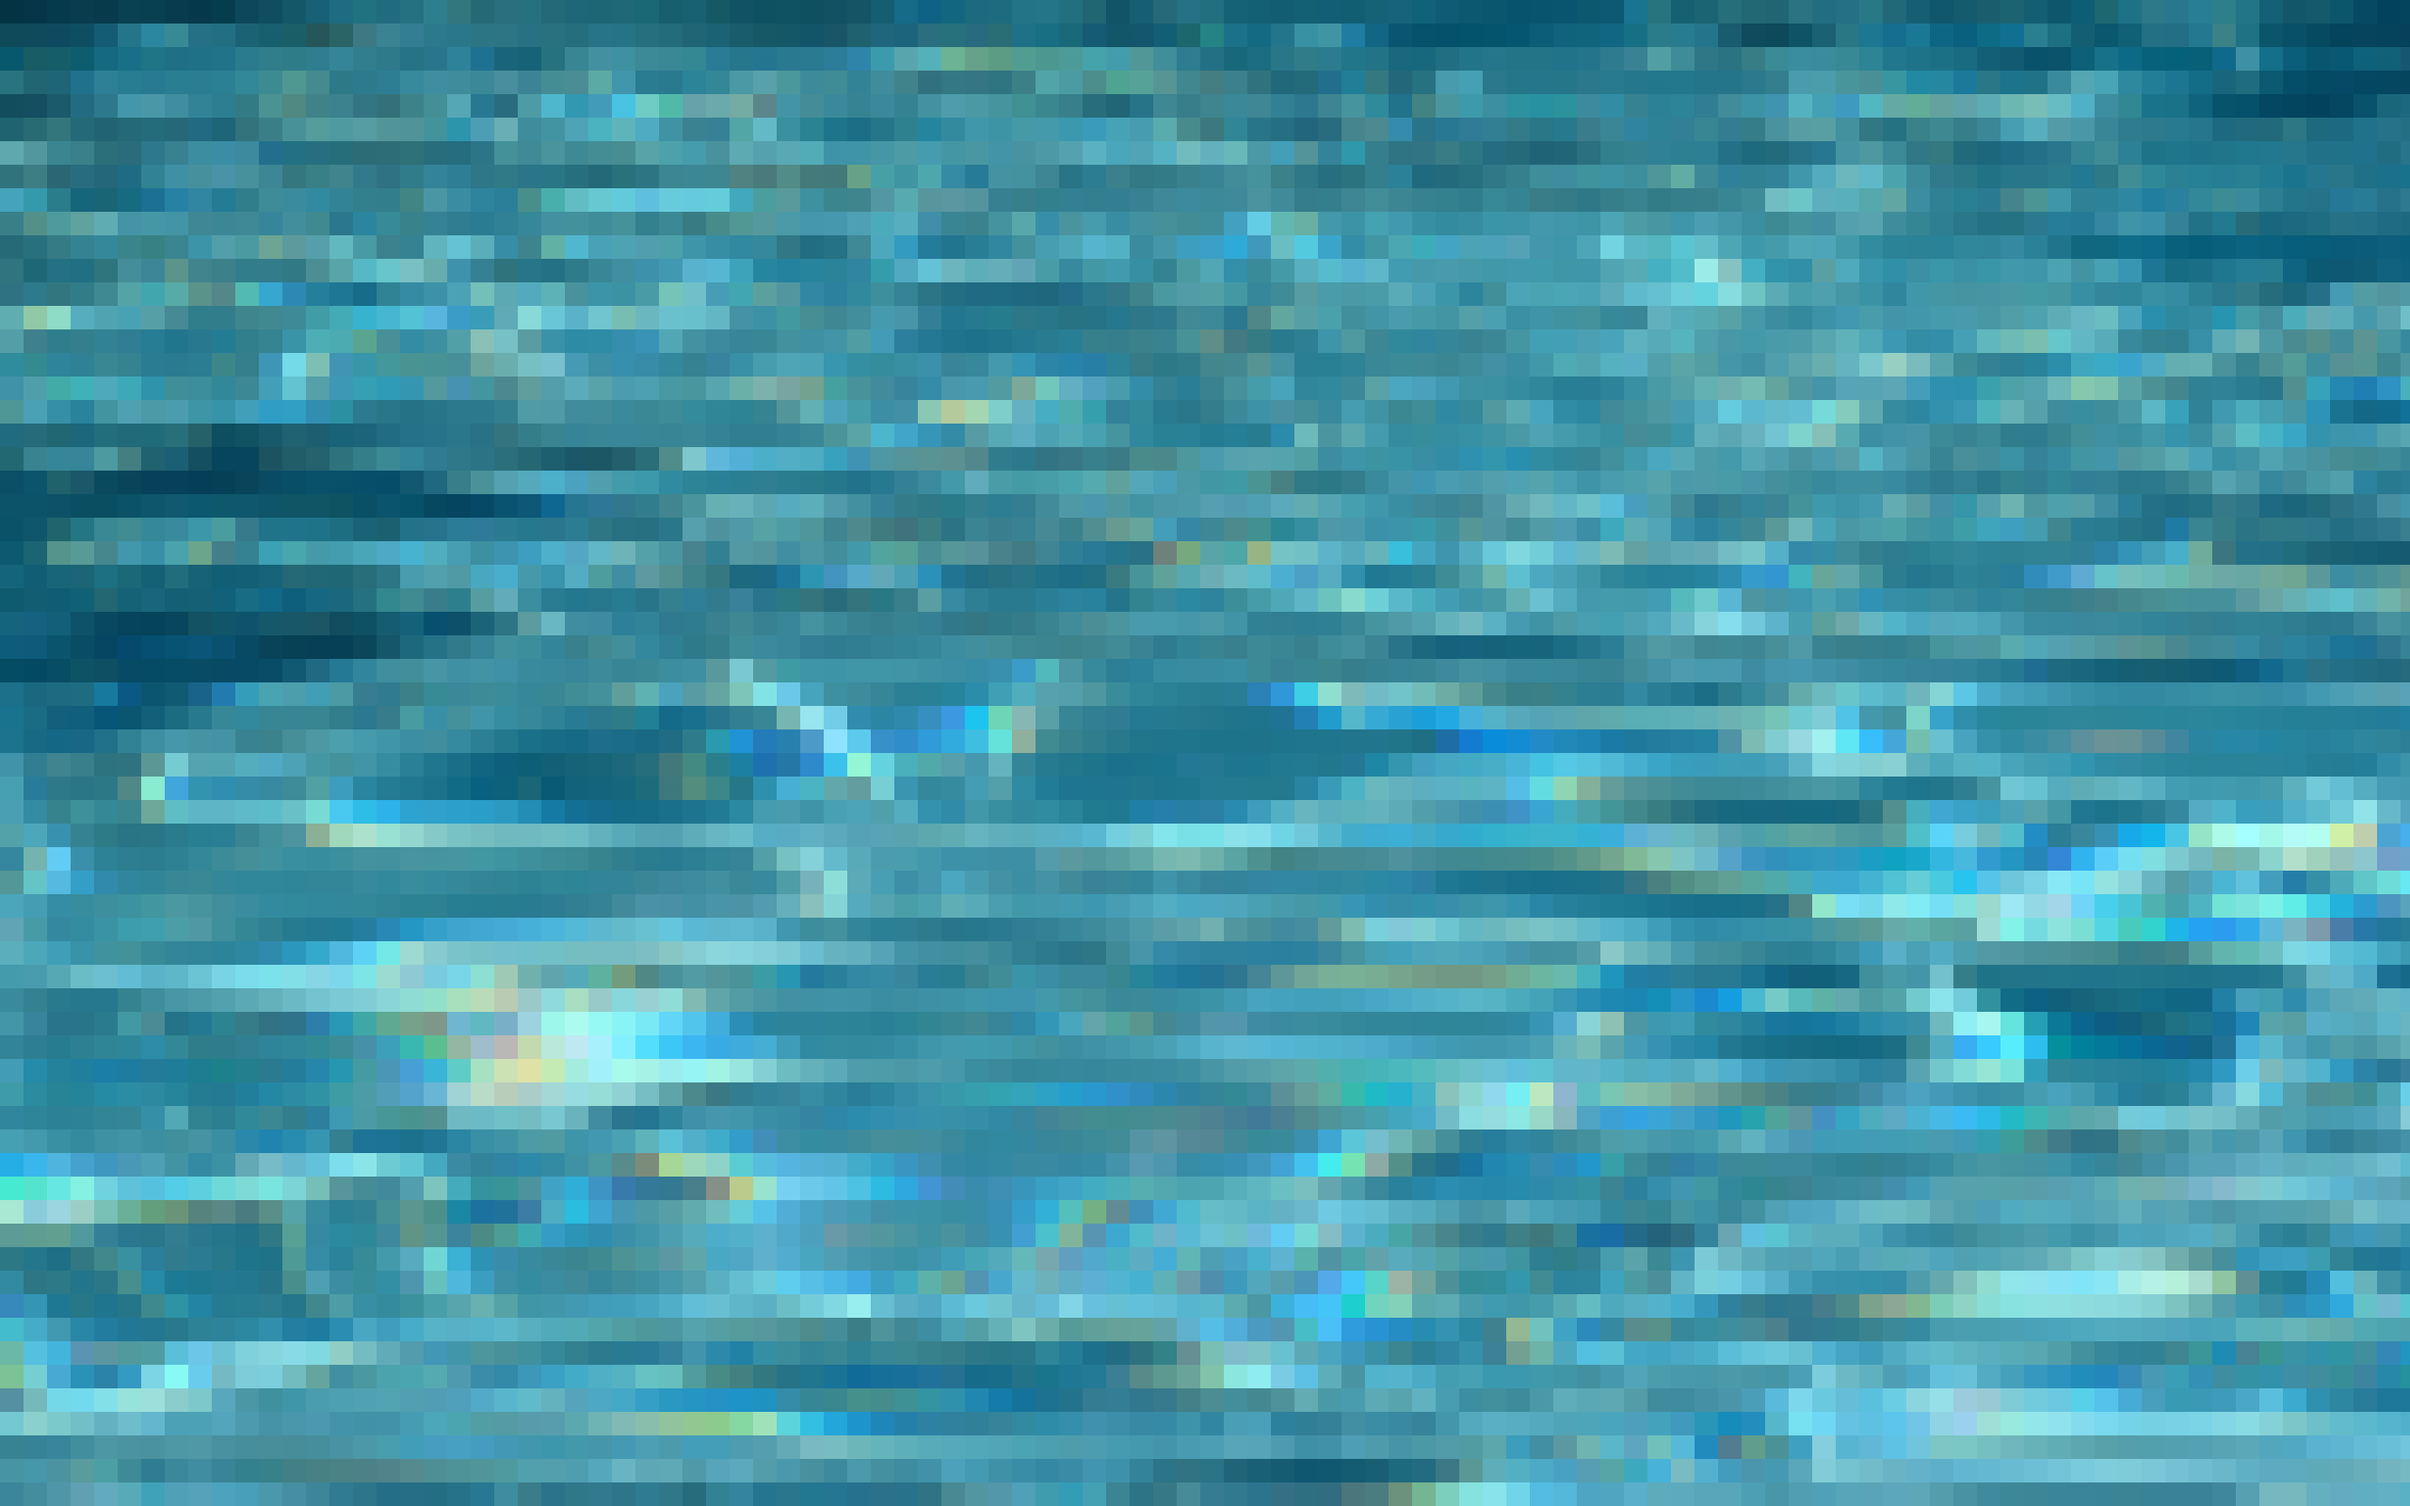
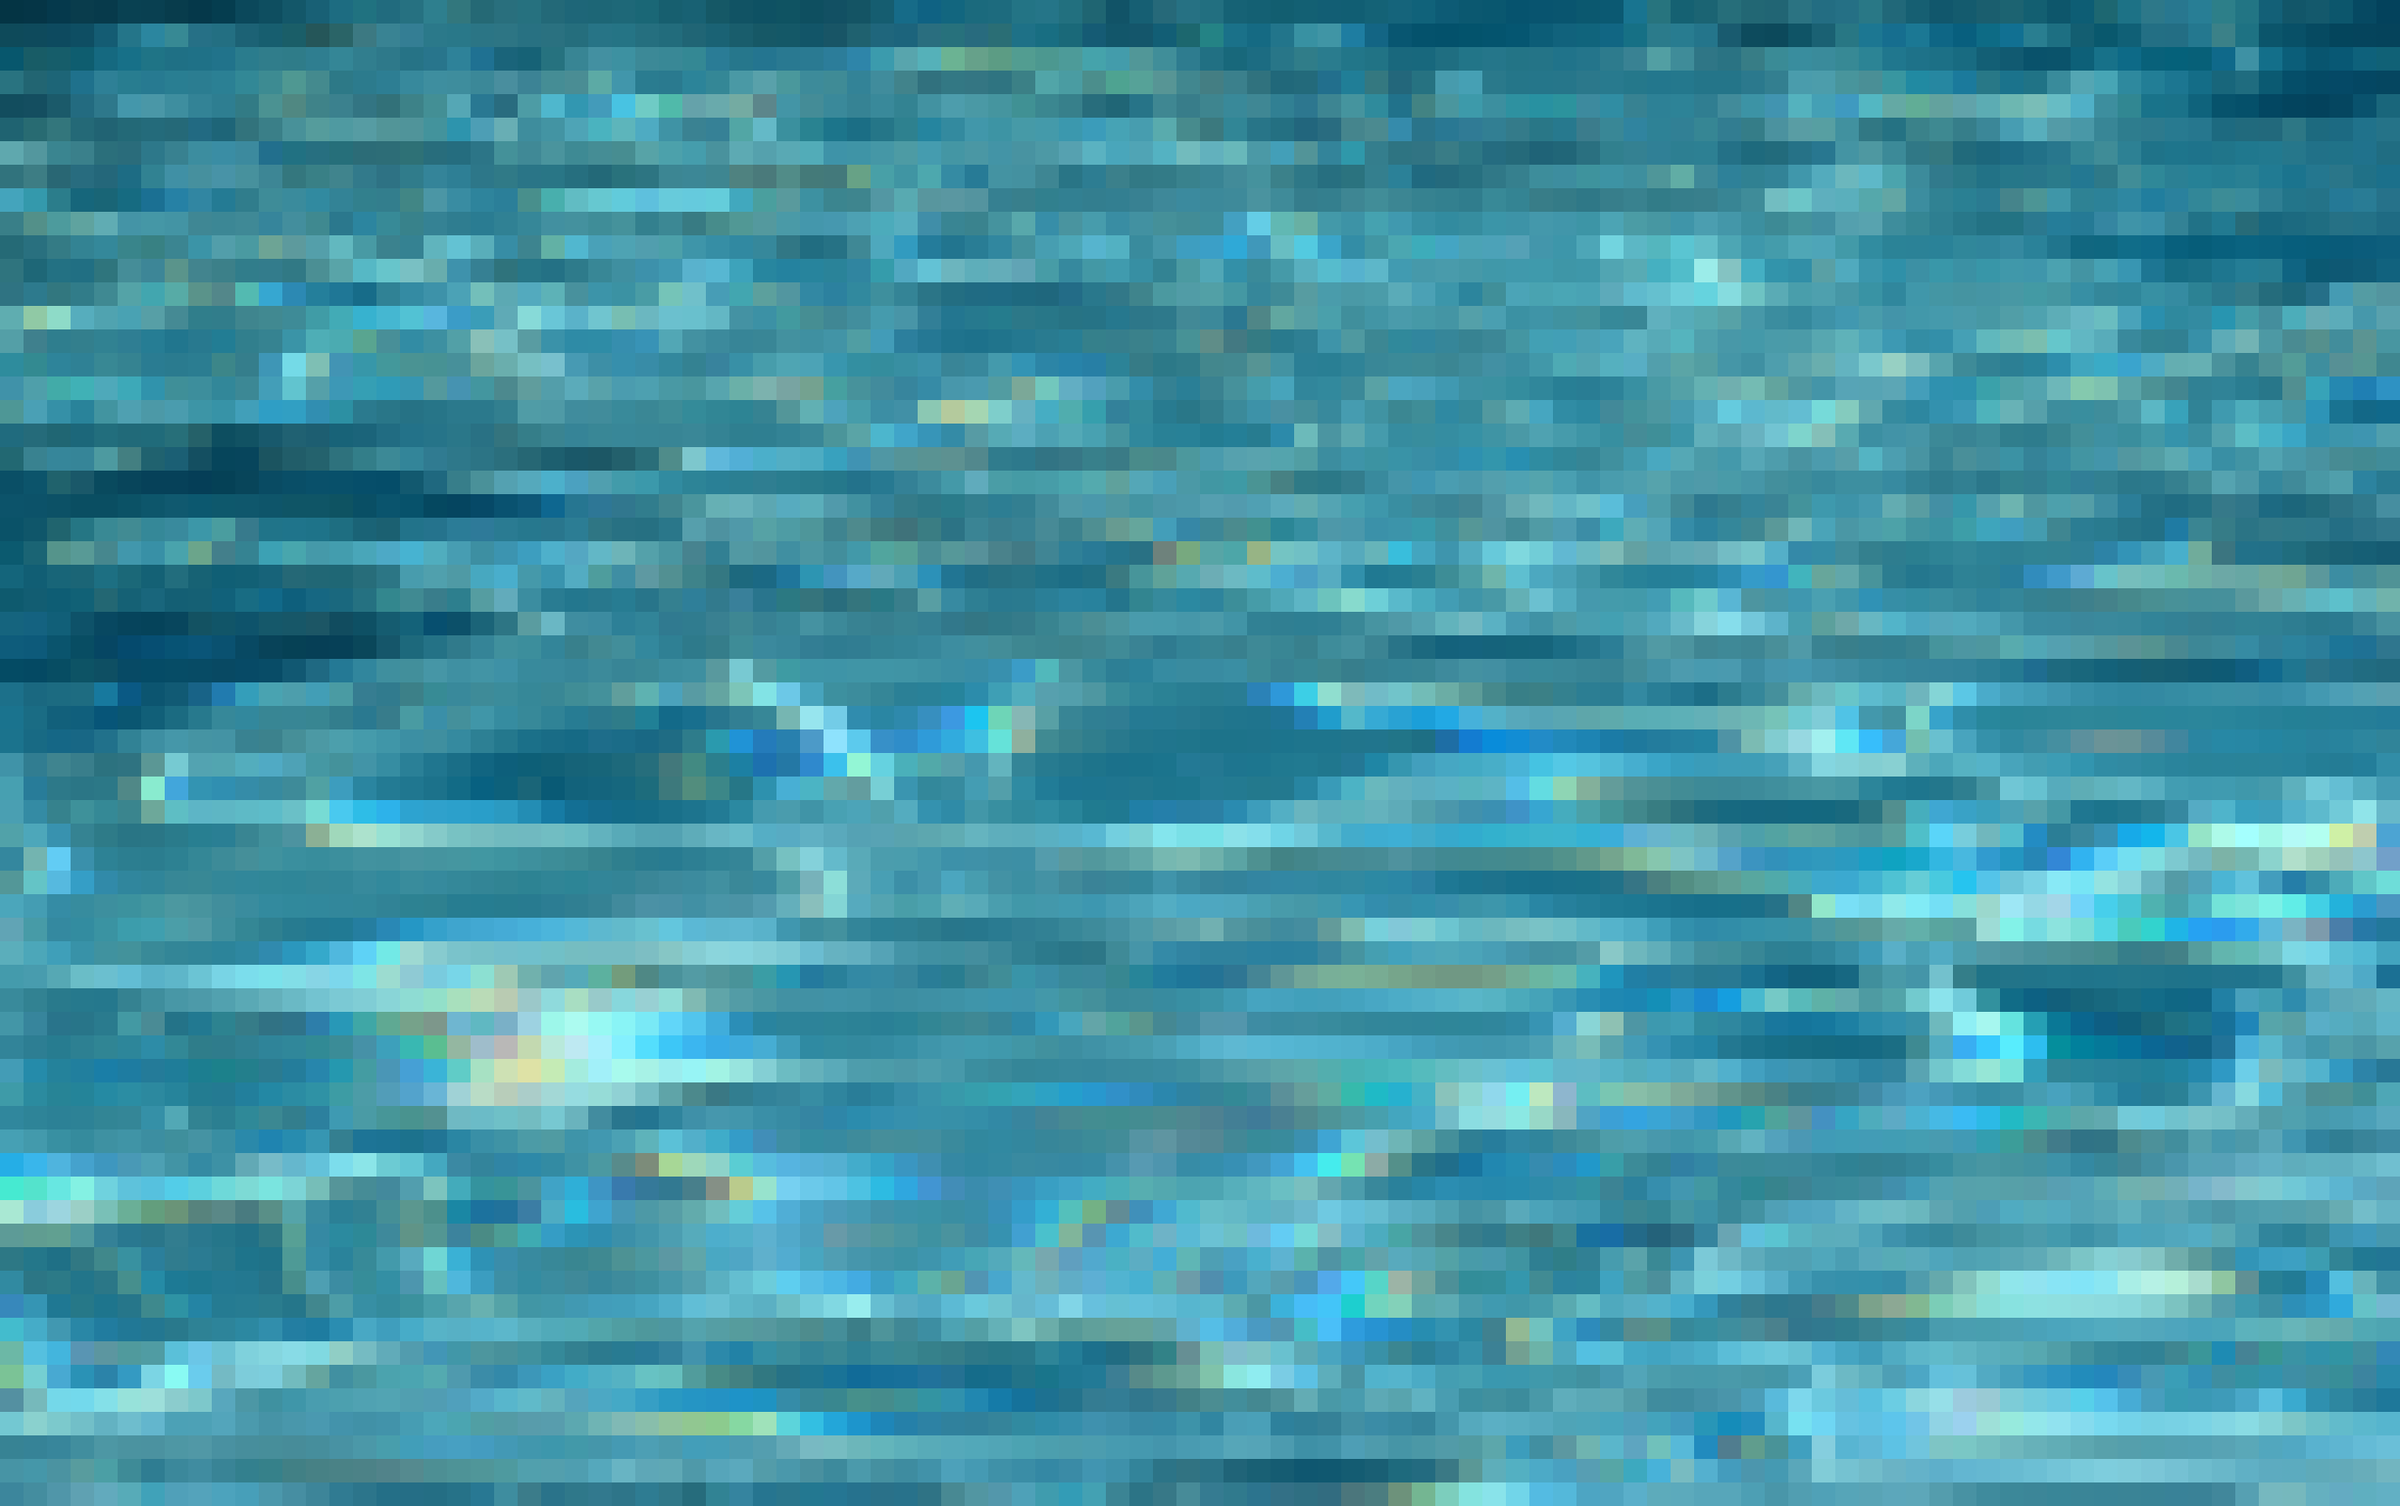
Adding apples at appropriate spacing. Fixing water image width

diff --git a/js/main.js b/js/main.js
@@ -30,11 +30,22 @@ DuckApp.controller('BoardCtrl', function($scope, $timeout, $interval) {
   };
 
   $scope.drawMoreApples = function () {
+    console.log("drawMoreApples");
     var column = (window.last_apple_column || 0) + 5;
-    while ( column < boardWidth() ) {
+    console.log("looking at column " + column + ". board width = " + boardWidth());
+    //while ( column < boardWidth() ) {
+    while ( true ) {
+      console.log("looping");
       var path = path === "path1" ? "path2" : "path1"; // Switch between paths
       $scope.board = generateAdders($scope.board, column, path);
-      column = column + _.random(4, 6);
+      var next_skip = _.random(4, 6);
+
+      if ( column + next_skip >= boardWidth() ) {
+        console.log("breaking out!");
+        break;
+      }
+      column = column + next_skip;
+
     }
 
     window.last_apple_column = column;
@@ -135,7 +146,7 @@ DuckApp.controller('BoardCtrl', function($scope, $timeout, $interval) {
       // Add more board
       $scope.addMoreBoard();
 
-      $scope.startCountdown()
+      $scope.startCountdown();
 
     } else {
 
@@ -252,7 +263,7 @@ DuckApp.controller('BoardCtrl', function($scope, $timeout, $interval) {
     inner.style.width = new_width_pixels + "px";
   };
 
-  $scope.tileClasses = function (things) {
+  $scope.tileClasses = function (things) { // TODO this gets called every digest. oops
     var classes = "";
     if ( _.contains(things, "duck") ) {
       classes += "duck ";
@@ -267,6 +278,12 @@ DuckApp.controller('BoardCtrl', function($scope, $timeout, $interval) {
       classes += "blocked";
     }
     return classes;
+  };
+
+  $scope.tileColor = function (tile) {
+    if ( _.contains(tile, "path1") || _.contains(tile, "path2") ) {
+      return "rgb(0, 0, " + _.random(100, 255) + ")";
+    }
   };
 
 });
@@ -297,8 +314,10 @@ function randomDirection(position) {
 
 function generateAdders(board, column, tile) {
   var new_board = board.slice(0);
+  console.log("trying to add apple at column: " + column);
 
   while ( true ) {
+    console.log("generateAdders looping");
     var row = _.random(0, window.BOARD_HEIGHT-1);
 
     var things = new_board[row][column];

diff --git a/css/style.css b/css/style.css
@@ -40,6 +40,7 @@ body {
   text-align: center;
   position: relative;
 }
+
 .tile.blocked {
   background-color: black;
 }
